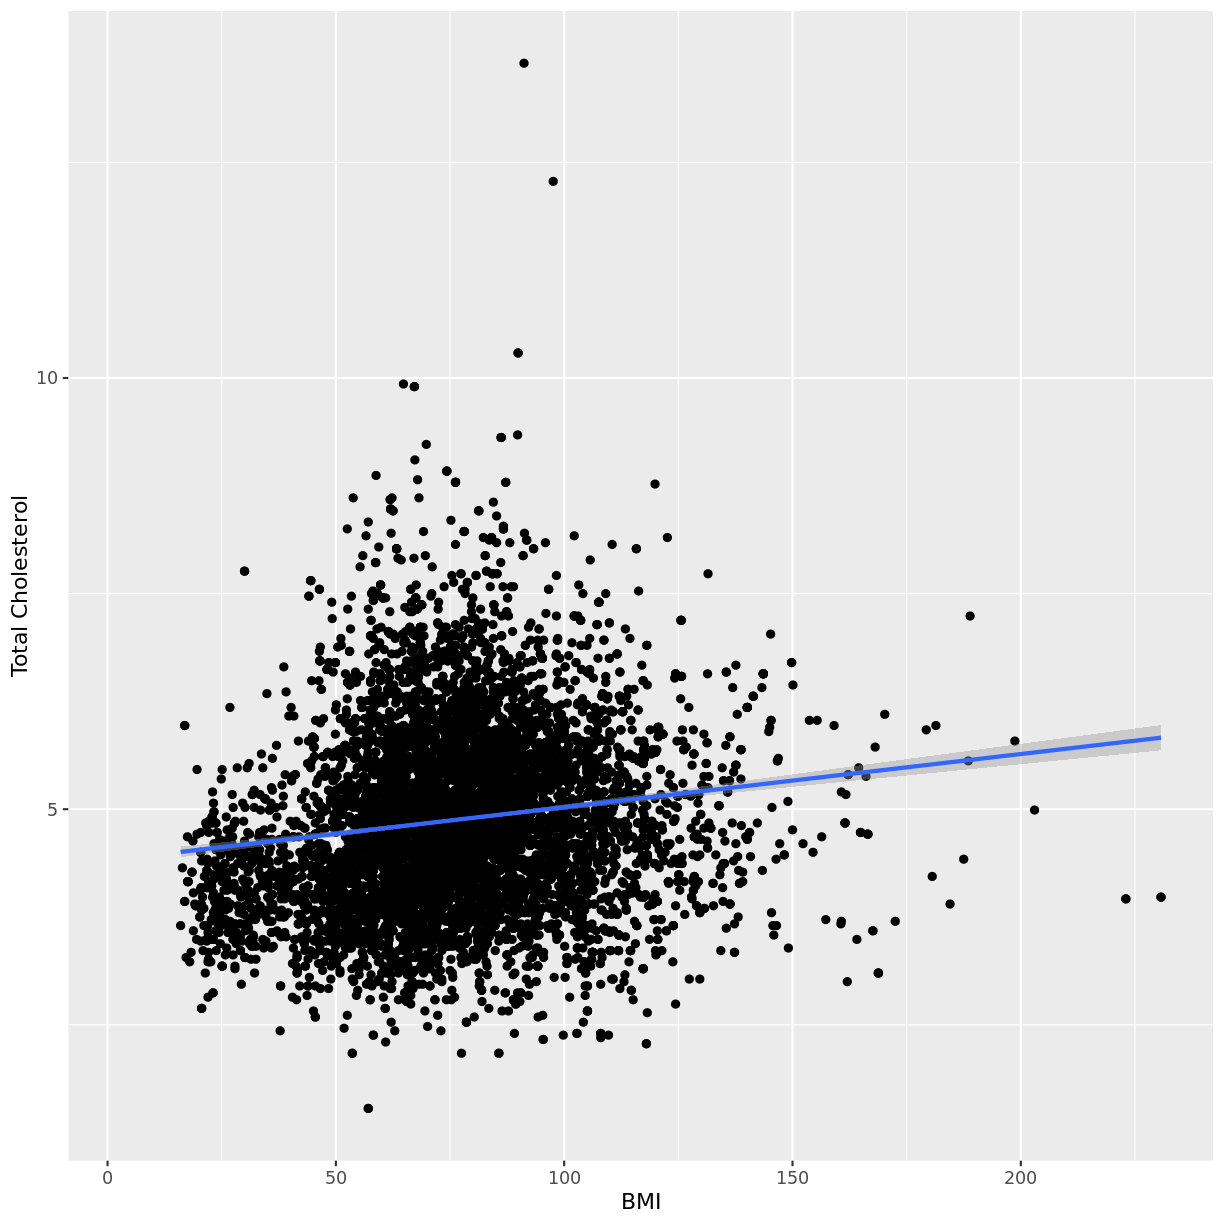
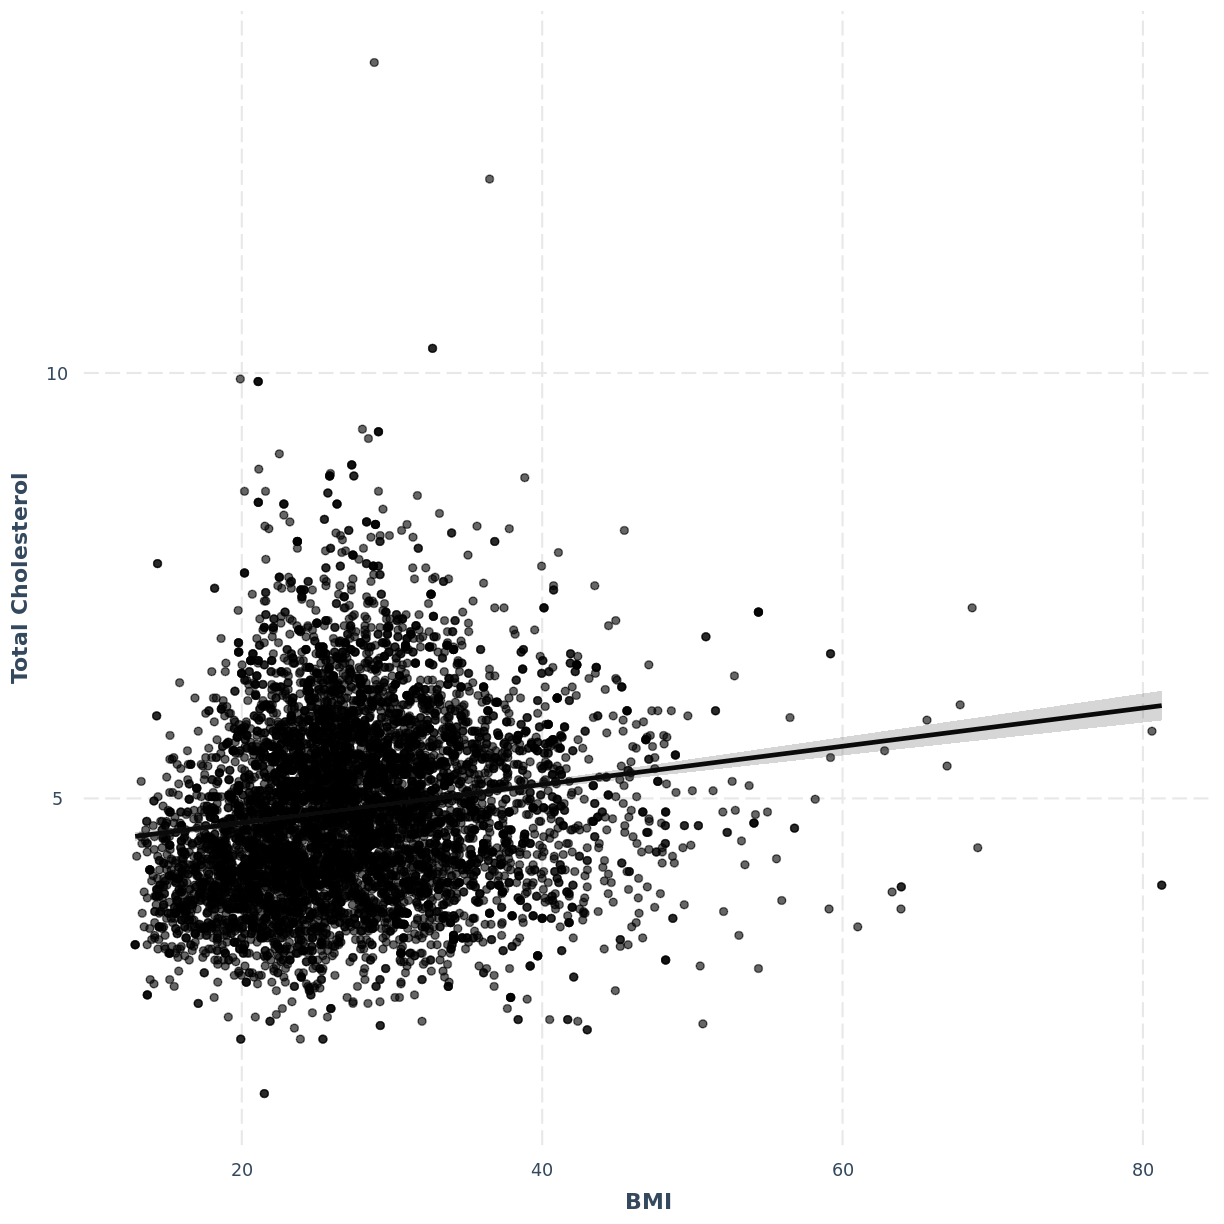
update objectives and plots

diff --git a/_episodes/02-singleContPred.md b/_episodes/02-singleContPred.md
@@ -8,7 +8,7 @@ objectives:
 - Use the lm command to fit a simple linear regression with one continuous explanatory
   variable.
 - Use the jtools package to interpret the model output.
-- Use the ggplot2 package to visualise the resulting model.
+- Use the jtools and ggplot2 packages to visualise the resulting model.
 keypoints: DEF
 questions: GHI
 teaching: 10
@@ -36,39 +36,7 @@ execises: 10
 ~~~
 TotChol_BMI_lm <- lm(TotChol ~ BMI, data = dat)
 
-summary(TotChol_BMI_lm)
-~~~
-{: .language-r}
-
-
-
-~~~
-
-Call:
-lm(formula = TotChol ~ BMI, data = dat)
-
-Residuals:
-    Min      1Q  Median      3Q     Max 
--3.2170 -0.7408 -0.1012  0.6375  8.7384 
-
-Coefficients:
-            Estimate Std. Error t value Pr(>|t|)    
-(Intercept) 4.263534   0.046555   91.58   <2e-16 ***
-BMI         0.022487   0.001642   13.69   <2e-16 ***
----
-Signif. codes:  0 '***' 0.001 '**' 0.01 '*' 0.05 '.' 0.1 ' ' 1
-
-Residual standard error: 1.063 on 8404 degrees of freedom
-  (1594 observations deleted due to missingness)
-Multiple R-squared:  0.02183,	Adjusted R-squared:  0.02171 
-F-statistic: 187.5 on 1 and 8404 DF,  p-value: < 2.2e-16
-~~~
-{: .output}
-
-
-
-~~~
-summ(TotChol_BMI_lm)
+summ(TotChol_BMI_lm, confint = TRUE, digits=3)
 ~~~
 {: .language-r}
 
@@ -81,17 +49,17 @@ Dependent Variable: TotChol
 Type: OLS linear regression 
 
 MODEL FIT:
-F(1,8404) = 187.53, p = 0.00
-R² = 0.02
-Adj. R² = 0.02 
+F(1,8404) = 187.531, p = 0.000
+R² = 0.022
+Adj. R² = 0.022 
 
 Standard errors: OLS
------------------------------------------------
-                    Est.   S.E.   t val.      p
------------------ ------ ------ -------- ------
-(Intercept)         4.26   0.05    91.58   0.00
-BMI                 0.02   0.00    13.69   0.00
------------------------------------------------
+----------------------------------------------------------
+                     Est.    2.5%   97.5%   t val.       p
+----------------- ------- ------- ------- -------- -------
+(Intercept)         4.264   4.172   4.355   91.581   0.000
+BMI                 0.022   0.019   0.026   13.694   0.000
+----------------------------------------------------------
 ~~~
 {: .output}
 
@@ -104,7 +72,7 @@ BMI                 0.02   0.00    13.69   0.00
 > 1. Using the `lm()` command, fit a simple linear regression of Total
 > Cholesterol (`TotChol`) as a function of BMI (`BMI`). Name this `lm` 
 > object `TotChol_BMI_lm`.  
-> 2. Using the `summary()` function, answer the following questions:
+> 2. Using the `summ` function from the `jtools` package, answer the following questions:
 >   
 > A) What level of Total Cholesterol does the model predict, on average,
 > for an individual with a BMI of 0?  
@@ -118,54 +86,17 @@ BMI                 0.02   0.00    13.69   0.00
 
 
 ~~~
-ggplot(dat, aes(x=Weight, y=TotChol)) +
-  geom_point() +
-  ylab("Total Cholesterol") +
-  xlab("BMI") +
-  geom_smooth(method="lm")
+effect_plot(TotChol_BMI_lm, pred = BMI, plot.points = TRUE, interval = TRUE) +
+  ylab("Total Cholesterol")
 ~~~
 {: .language-r}
-
-
-
-~~~
-`geom_smooth()` using formula 'y ~ x'
-~~~
-{: .output}
-
-
-
-~~~
-Warning: Removed 1589 rows containing non-finite values (stat_smooth).
-~~~
-{: .warning}
-
-
-
-~~~
-Warning: Removed 1589 rows containing missing values (geom_point).
-~~~
-{: .warning}
 
 <img src="../fig/rmd-02-plot totchol vs BMI-1.png" title="plot of chunk plot totchol vs BMI" alt="plot of chunk plot totchol vs BMI" width="612" style="display: block; margin: auto;" />
-
-~~~
-effect_plot(TotChol_BMI_lm, pred = BMI, plot.points = TRUE, interval = TRUE)
-~~~
-{: .language-r}
-
-<img src="../fig/rmd-02-plot totchol vs BMI-2.png" title="plot of chunk plot totchol vs BMI" alt="plot of chunk plot totchol vs BMI" width="612" style="display: block; margin: auto;" />
 
 > ## Exercise  
 > You have been asked to report on your simple linear regression model at 
 > the next lab meeting. To help your colleagues interpret the model, you
-> decide to produce a figure. Make this figure using the ggplot2 package,
-> ensuring that it includes the following elements:  
-> 1. Total cholesterol (`TotChol`) on the y-axis and BMI (`BMI`) on the
-> x-axis, from the NHANES data.  
-> 2. This data shown as a scatterplot.  
-> 3. The y-axis labelled as "Total Cholesterol" and the x-axis labelled
-> as "BMI".  
-> 4. A simple linear regression line.  
+> decide to produce a figure. Make this figure using the jtools package.
+> Ensure that the y-axis is labelled as "Total Cholesterol" rather than "TotChol".  
 {: .challenge}
 

diff --git a/_episodes/03-twoLvlFactor.md b/_episodes/03-twoLvlFactor.md
@@ -4,14 +4,12 @@
 title: "Linear regression with a two-level factor explanatory variable"
 source: Rmd
 objectives:
-- Appreciate that measuring the relationship between a two-level factor variable and
-  a continuous variable is a regression problem.
 - Use the ggplot2 package to explore the relationship between a continuous variable
   and a two-level factor variable.
 - Use the lm command to fit a simple linear regression with a two-level factor explanatory
   variable.
 - Use the jtools package to interpret the model output.
-- Use the ggplot2 package to visualise the resulting model.
+- Use the jtools and ggplot2 packages to visualise the resulting model.
 keypoints: DEF
 questions: GHI
 teaching: 10
@@ -29,7 +27,8 @@ dat %>%
   ggplot(., aes(x=PhysActive, y=Pulse)) +
   geom_violin() +
   stat_summary(fun = "mean", size = 0.2) +
-  stat_summary(fun.data = "mean_cl_normal", geom="errorbar", width=0.2) 
+  stat_summary(fun.data = "mean_cl_normal", geom="errorbar", width=0.2) +
+  xlab("Physically Active")
 ~~~
 {: .language-r}
 
@@ -50,7 +49,7 @@ Warning: Removed 2 rows containing missing values (geom_segment).
 > x-axis, from the NHANES data.  
 > 2. This data shown as a violin plot.  
 > 3. The y-axis labelled as "Pulse" and the x-axis labelled
-> as "Physically active".  
+> as "Physically Active".  
 {: .challenge}
 
 
@@ -101,7 +100,8 @@ PhysActiveYes         -1.358   -1.885   -0.831    -5.052   0.000
 
 
 ~~~
-effect_plot(Pulse_PhysActive_lm, pred = PhysActive)
+effect_plot(Pulse_PhysActive_lm, pred = PhysActive) +
+  xlab("Physically Active")
 ~~~
 {: .language-r}
 
@@ -109,6 +109,7 @@ effect_plot(Pulse_PhysActive_lm, pred = PhysActive)
 
 > ## Exercise  
 > Use the `jtools` package to visualise the model of `Pulse` as a function of `PhysActive`.  
+> Ensure that the x-axis is labelled as "Physically active" rather than "PhysActive".  
 > How does this plot relate to the output given by `summ`?  
 {: .challenge}
 
